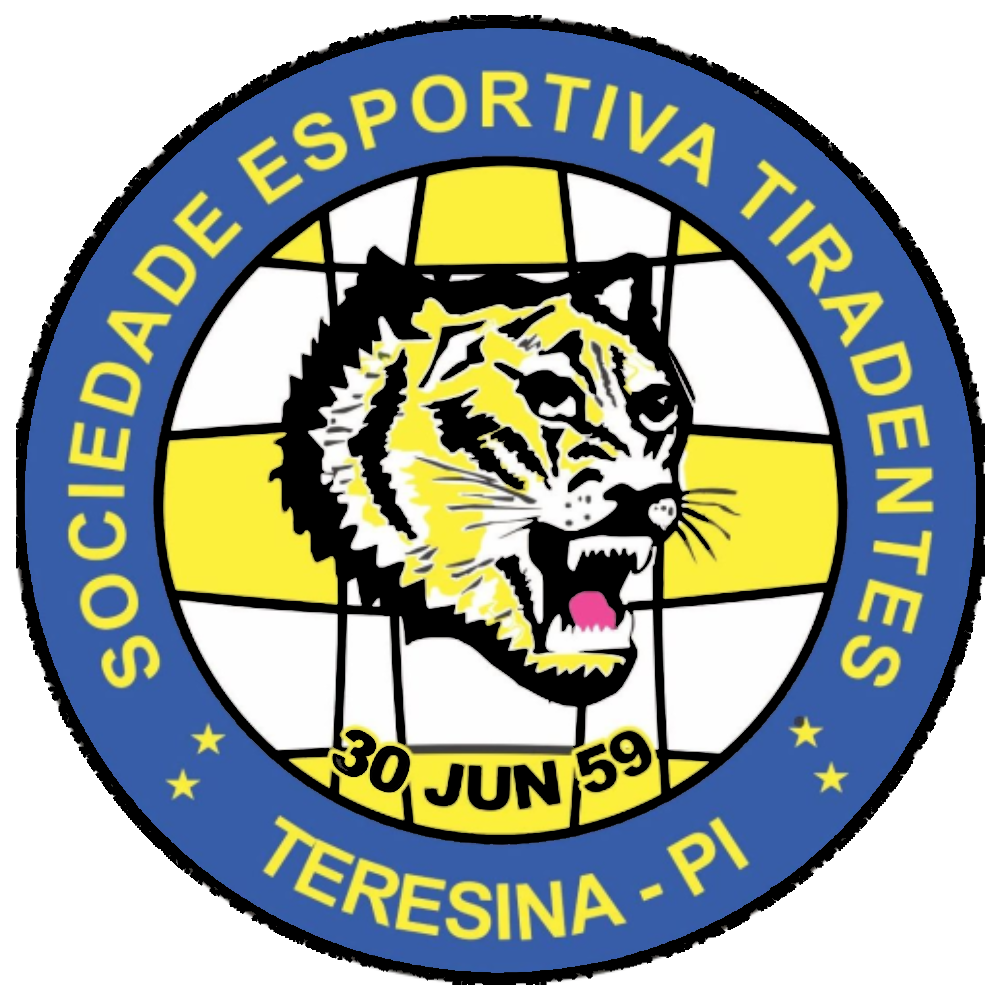
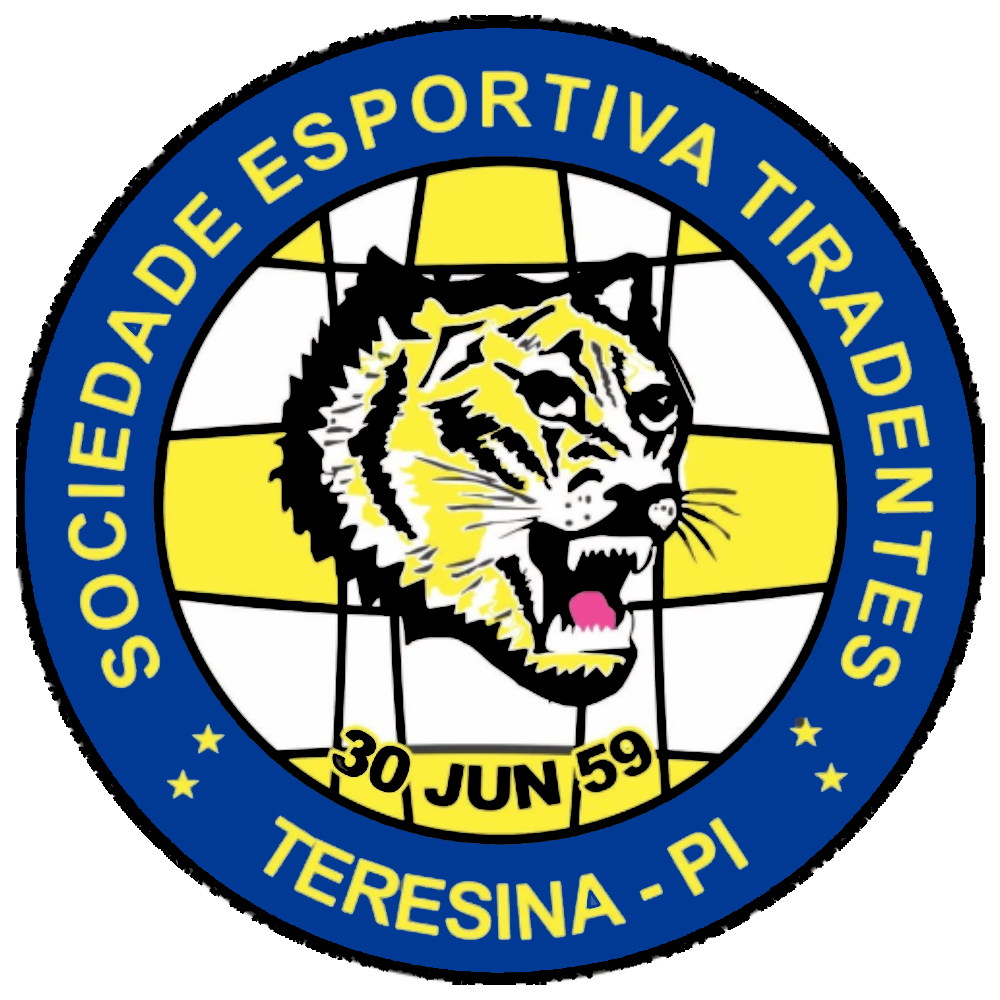
1974

Changed region(s): [[0.0, 0.031, 0.992, 0.992]]

diff --git a/src/Times.js b/src/Times.js
@@ -635,7 +635,7 @@ function Times(time, data) {
                   break;
             case "Cabofriense": case "Cabo Frio":
                   nomeAtual = "Cabofriense";
-                  if(ano < 1997){
+                  if (ano < 1997) {
                         escudo = "Cabofriense1997";
                   } else {
                         escudo = time;
@@ -720,11 +720,22 @@ function Times(time, data) {
                   backgroundColor = "#193D8B";
                   letterColor = "white";
                   break;
-            case "Caxias":
+            case "Umuarama":
                   nomeAtual = time;
                   escudo = time;
-                  backgroundColor = "#7B1138";
-                  letterColor = "white";
+                  backgroundColor = "#158e3d";
+                  letterColor = "#f7d611";
+                  break;
+            case "Caxias": case "Associação Caxias":
+                  nomeAtual = "Caxias";
+                  escudo = time;
+                  if (time === "Associação Caxias") {
+                        backgroundColor = "black";
+                        letterColor = "white";
+                  } else {
+                        backgroundColor = "#7B1138";
+                        letterColor = "white";
+                  }
                   break;
             case "Ceará":
                   nomeAtual = time;
@@ -1066,6 +1077,12 @@ function Times(time, data) {
                   escudo = time;
                   backgroundColor = "#003259";
                   letterColor = "white";
+                  break;
+            case "Jequié":
+                  nomeAtual = time;
+                  escudo = time;
+                  backgroundColor = "#00008e";
+                  letterColor = "#fdd116";
                   break;
             case "Real Oviedo":
                   nomeAtual = time;
@@ -2454,7 +2471,7 @@ function Times(time, data) {
             case "Nacional-AM":
                   nomeAtual = time;
                   escudo = time;
-                  backgroundColor = "#19417E";
+                  backgroundColor = "#003a94";
                   letterColor = "#F5D94D";
                   break;
             case "Nacional-PAR":
@@ -3504,7 +3521,7 @@ function Times(time, data) {
             case "Tiradentes-PI":
                   nomeAtual = time;
                   escudo = time;
-                  backgroundColor = "#415DA6";
+                  backgroundColor = "#003a94";
                   letterColor = "#fde900";
                   break;
             case "Tolima":

diff --git a/src/TodosOsJogos/BotafogoJogos.js b/src/TodosOsJogos/BotafogoJogos.js
@@ -6073,6 +6073,13 @@ function jogos() {
     jogos.push({ "mandante": "Rio Branco-ES", "visitante": "Botafogo", "golsMandante": 0, "golsVisitante": 1, "campeonato": "Amistoso", "data": "1975-04-02", "estadio": "" });
     jogos.push({ "mandante": "Bahia", "visitante": "Botafogo", "golsMandante": 1, "golsVisitante": 0, "campeonato": "Amistoso", "data": "1975-07-16", "estadio": "" });
     jogos.push({ "mandante": "Americano", "visitante": "Botafogo", "golsMandante": 1, "golsVisitante": 1, "campeonato": "Amistoso", "data": "1975-10-15", "estadio": "" });
+    jogos.push({ "mandante": "Jequié", "visitante": "Botafogo", "golsMandante": 0, "golsVisitante": 1, "campeonato": "Amistoso", "data": "1974-04-21", "estadio": "Waldomirão" });
+    jogos.push({ "mandante": "Fluminense de Feira", "visitante": "Botafogo", "golsMandante": 0, "golsVisitante": 0, "campeonato": "Amistoso", "data": "1974-05-21", "estadio": "" });
+    jogos.push({ "mandante": "Associação Caxias", "visitante": "Botafogo", "golsMandante": 0, "golsVisitante": 0, "campeonato": "Amistoso", "data": "1974-06-23", "estadio": "Centenário (Caxias do Sul)" });
+    jogos.push({ "mandante": "Umuarama", "visitante": "Botafogo", "golsMandante": 0, "golsVisitante": 1, "campeonato": "Amistoso", "data": "1974-07-21", "estadio": "Estádio Municipal Lúcio Pipino" });
+    jogos.push({ "mandante": "Vitória", "visitante": "Botafogo", "golsMandante": 1, "golsVisitante": 0, "campeonato": "Amistoso", "data": "1974-10-30", "estadio": "Itabunão" });
+    jogos.push({ "mandante": "Nacional-AM", "visitante": "Botafogo", "golsMandante": 0, "golsVisitante": 1, "campeonato": "Amistoso", "data": "1974-12-15", "estadio": "Vivaldão" });
+    jogos.push({ "mandante": "Goiás", "visitante": "Botafogo", "golsMandante": 3, "golsVisitante": 1, "campeonato": "Amistoso", "data": "1974-12-17", "estadio": "Olímpico (Goiânia)" });
 
     jogos = jogos.concat(ProximosJogos());
 
